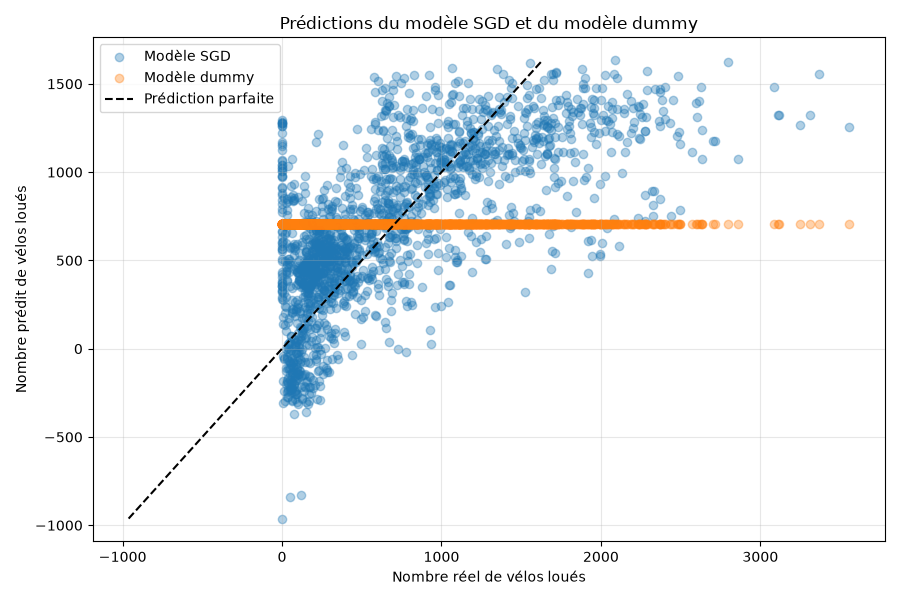
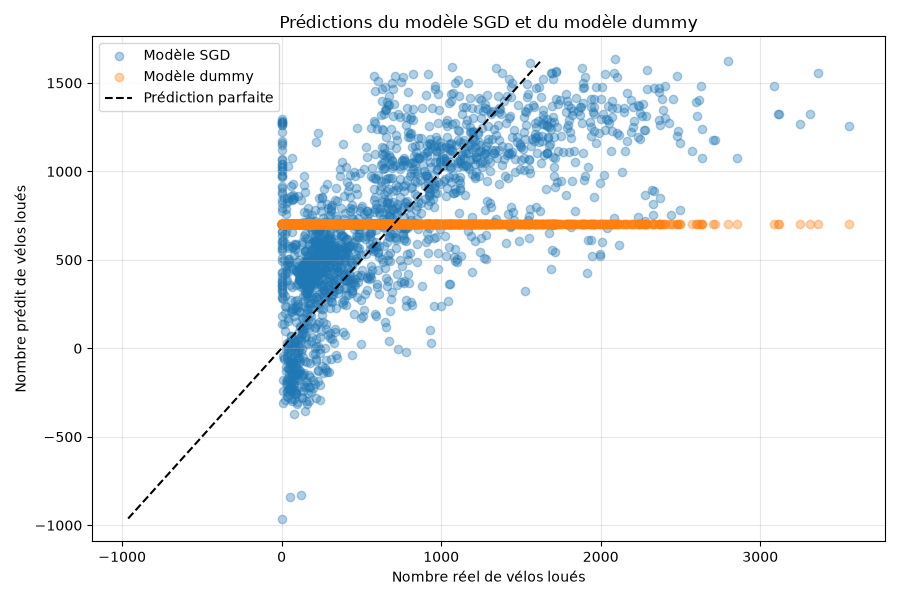
refactor: clarification et amélioration de la lisibilité du code des métadonnées

diff --git a/src/donnees.py b/src/donnees.py
@@ -170,25 +170,43 @@ def enregistrer_metadonnees(df: pd.DataFrame, colonnes: list[str], r2: float) ->
         variables.append(information)
 
 
-    # Compte le nombre d'heures dans chaque intervalle de locations.
-    effectifs, bornes = np.histogram(df["Rented Bike Count"], bins=30)
+    
+    # Répartit les nombres de vélos loués en 30 intervalles (ça aurait pu être un autre nombre).
+    # effectifs : nombre d'heures observées dans chaque intervalle.
+    # bornes : limites de chaque intervalle en nombre de vélos loués.
+    effectifs_numpy, bornes_numpy = np.histogram(df["Rented Bike Count"], bins=30)
 
+    # Convertit les tableaux NumPy en listes Python pour le fichier JSON.
+    effectifs = effectifs_numpy.tolist()
+    bornes = bornes_numpy.tolist()
+
+    # Regroupe toutes les informations à enregistrer.
     informations = {
         "variables": variables,
         "r2_test": float(r2),
         "histogramme": {
-            "effectifs": effectifs.tolist(),
-            "bornes": bornes.tolist()
+            "effectifs": effectifs,
+            "bornes": bornes
         }
     }
 
-    # Enregistre le JSON dans le dossier modeles du projet.
-    racine = os.path.dirname(os.path.dirname(os.path.abspath(__file__)))
-    dossier = os.path.join(racine, "modeles")
-    os.makedirs(dossier, exist_ok=True)
-
-    with open(os.path.join(dossier, "metadonnees.json"), "w", encoding="utf-8") as fichier:
+    
+    # Récupère le chemin complet du fichier donnees.py.
+    chemin_fichier = os.path.abspath(__file__)
+    # Récupère le dossier qui contient donnees.py, donc src.
+    dossier_src = os.path.dirname(chemin_fichier)
+    # Remonte encore d'un dossier pour retrouver le dossier principal du projet.
+    dossier_projet = os.path.dirname(dossier_src)
+    # Ajoute "modeles" au chemin du projet pour choisir où enregistrer le JSON.
+    dossier_modeles = os.path.join(dossier_projet, "modeles")
+    # Crée le dossier modeles s'il n'existe pas déjà.
+    os.makedirs(dossier_modeles, exist_ok=True)
+    # Ajoute le nom du fichier JSON au chemin du dossier modeles.
+    chemin_json = os.path.join(dossier_modeles, "metadonnees.json")
+    with open(chemin_json, "w", encoding="utf-8") as fichier:
         json.dump(informations, fichier, ensure_ascii=False, indent=2)
+
+
 
 class Historique:
     def __init__(self, chemin: str) -> None:
